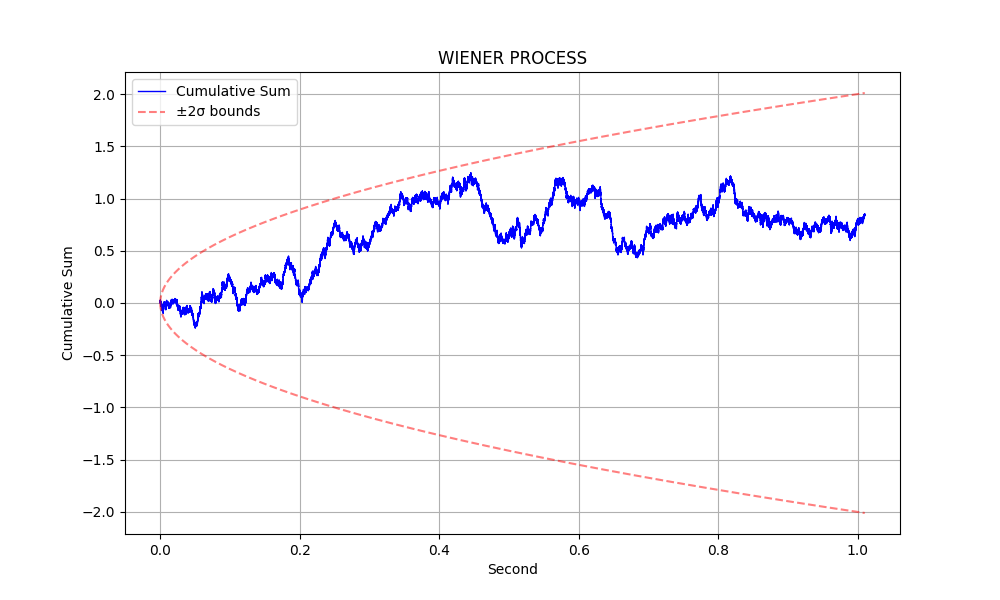
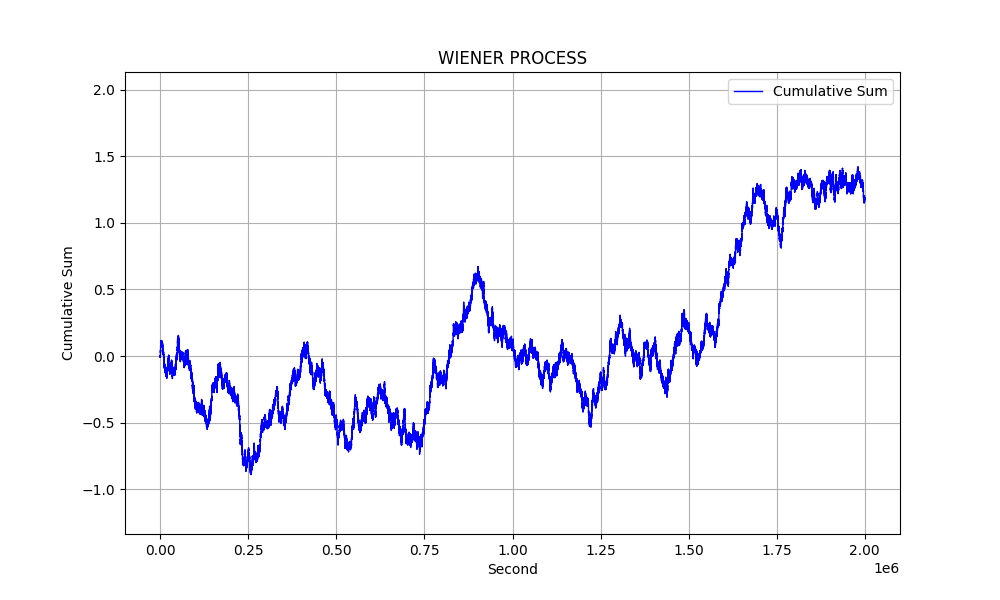
Second Commit

diff --git a/main.py b/main.py
@@ -11,7 +11,7 @@ CHOICE = 1
 ALPHA = 1
 T = 10 ** (-6)
 N = 10 ** 6
-SAMPLES_OF_WIENER = 10 ** 4
+SAMPLES_OF_WIENER = 10 ** 6
 
 def heads_or_tails(method: int = RAND, step_size : float = 0.001) -> float:
     if method == RAND:
@@ -20,6 +20,17 @@ def heads_or_tails(method: int = RAND, step_size : float = 0.001) -> float:
     else:
         outcomes = [-step_size, step_size]
         return np.random.choice(outcomes)
+
+def heads_or_tails_vectorized(method: int = RAND, step_size: float = 0.001, num_samples: int = N + SAMPLES_OF_WIENER + 1) -> np.ndarray:
+  if method == RAND:
+    random_numbers = np.random.rand(num_samples)
+    return np.where(random_numbers < 0.5, step_size, -step_size)
+  else:
+    outcomes = np.array([-step_size, step_size])
+    return np.random.choice(outcomes, size=num_samples)
+
+def calculate_cumulative_sum_vectorized(values: np.ndarray) -> np.ndarray:
+  return np.cumsum(values)
 
 def calculate_cumulative_sum(dict_to_calculate: Dict[int, float]) -> Dict[int, float]:
     cumulative_sum = 0
@@ -30,26 +41,20 @@ def calculate_cumulative_sum(dict_to_calculate: Dict[int, float]) -> Dict[int, f
     return new_dict
 
 def plot_wiener_process(
-        result_dict: Dict[int, float],
+        result: np.ndarray,
         display : bool = False,
         filename: str = "wiener_plot.png",
     ) -> None:
 
-    new_dict = calculate_cumulative_sum(result_dict)
-    times = [key / N for key in new_dict.keys()] # X values (number of samples)
-    values = new_dict.values() # Y values (Cumulative sum of everything before the current sample)
-
     plt.figure(figsize=(10, 6))
-    plt.plot(times, values, label="Cumulative Sum", color='b', linewidth=1)
-
-    # Add theoretical bounds
-    std = np.sqrt(ALPHA * times)
-    plt.plot(times, 2 * std, 'r--', alpha=0.5, label='±2σ bounds')
-    plt.plot(times, -2 * std, 'r--', alpha=0.5)
+    plt.plot(result, label="Cumulative Sum", color='b', linewidth=1)
 
     plt.xlabel("Second")
     plt.ylabel("Cumulative Sum")
     plt.title("WIENER PROCESS")
+
+    plt.ylim(result.min() * 1.5, result.max() * 1.5)
+
     plt.legend()
 
     plt.grid(True)
@@ -63,8 +68,8 @@ def plot_wiener_process(
 def main():
     # 1. Initial coin flip simulations
     TRIALS = 100
-    choice_results = [heads_or_tails(method=CHOICE) for _ in range(TRIALS)]
-    rand_results = [heads_or_tails(method=RAND) for _ in range(TRIALS)]
+    choice_results = heads_or_tails_vectorized(method=CHOICE, step_size =0.001, num_samples=TRIALS)
+    rand_results = heads_or_tails_vectorized(method=RAND, step_size =0.001, num_samples=TRIALS)
 
     # Print results of coin flip methods
     print("-" * 50 + "\nCounted results from Choice method:")
@@ -74,14 +79,14 @@ def main():
     print(Counter(rand_results))
 
     # 2. Calculate and display hyper parameters
-    variance = ALPHA * T
-    std_dev = np.sqrt(variance)
+    step_length_2 = ALPHA * T
+    step_length = np.sqrt(step_length_2)
 
     print("-" * 50 + "\nHyper parameters:")
     print("ALPHA =", ALPHA)
     print("T =", T)
-    print("S^2 = ALPHA * T =", variance)
-    print("S =", std_dev)
+    print("S^2 = ALPHA * T =", step_length_2)
+    print("S =", step_length)
     print("N =", N)
     print("Samples of wiener =", SAMPLES_OF_WIENER)
 
@@ -92,37 +97,25 @@ def main():
 
     # 4. Generate Wiener process
     total_samples = N + SAMPLES_OF_WIENER + 1
-    wiener_results = [heads_or_tails(method=RAND, step_size=0.001) for _ in range(total_samples)]
-    wiener_dict = {i: wiener_results[i] for i in range(total_samples)}
+    wiener_results = heads_or_tails_vectorized(method=RAND, step_size =0.001, num_samples=total_samples)
 
-    # 5. Calculate statistics
-    sample_sum = sum(wiener_dict[i + N] for i in range(SAMPLES_OF_WIENER + 1))
-    sample_mean = sample_sum / SAMPLES_OF_WIENER
+    sample_sum = np.cumsum(wiener_results[N:])
+    sample_mean = sample_sum[-1] / SAMPLES_OF_WIENER
 
-    print("-" * 50 + "\nsummation and mean after Wiener process starts at 1 million samples:")
+    print("-" * 50 + "\nsummation and mean after Wiener process starts after 1 million samples:")
     print(f"- Summation was over {SAMPLES_OF_WIENER} samples")
-    print("Summation:", sample_sum)
+    print("Summation:", sample_sum[-1])
     print("Mean:", sample_mean)
-
-    # Calculate variance
-    squared_deviations_sum = sum((wiener_dict[i + N] - sample_mean) ** 2
-                                 for i in range(SAMPLES_OF_WIENER + 1))
-    sample_variance = squared_deviations_sum / SAMPLES_OF_WIENER
-    print("Variance:", sample_variance)
 
     # 6. Plot full Wiener process
     plot_wiener_process(
-        wiener_dict,
+        np.cumsum(wiener_results[:]),
         display=True,
         filename="wiener_plot_starts_at_1sec_extended.png",
     )
 
-    # 7. Create and plot truncated process
-    truncated_values = list(dict(list(wiener_dict.items())[N:]).values())
-    truncated_dict = {i: truncated_values[i] for i in range(SAMPLES_OF_WIENER)}
-
     plot_wiener_process(
-        truncated_dict,
+        sample_sum,
         display=True,
         filename="wiener_plot.png",
     )
@@ -133,23 +126,28 @@ def main():
     COVARIANCE_TRIALS = 200
 
     covariance_results = []
+    variance_results = []
     for _ in range(COVARIANCE_TRIALS):
         # Generate new process
-        trial_results = [heads_or_tails(method=RAND, step_size=0.001) for _ in range(N + TIME_1 + 1)]
-        trial_dict = {i: trial_results[i] for i in range(N + TIME_1 + 1)}
+        wiener_results = heads_or_tails_vectorized(method=RAND, step_size =0.001, num_samples= N + TIME_1 + 1)
 
-        # Process results
-        trial_values = list(dict(list(trial_dict.items())[N:]).values())
-        trial_process = {i: trial_values[i] for i in range(TIME_1 + 1)}
-        cumulative_sums = calculate_cumulative_sum(trial_process)
+        wiener_results_cumulative_sum = np.cumsum(wiener_results[N:])
 
         # Calculate covariance
         covariance_results.append(
-            list(cumulative_sums.values())[TIME_0] * list(cumulative_sums.values())[TIME_1]
+            wiener_results_cumulative_sum[TIME_0] * wiener_results_cumulative_sum[TIME_1]
+        )
+        variance_results.append(
+            wiener_results_cumulative_sum[TIME_0] * wiener_results_cumulative_sum[TIME_0]
         )
 
+    print("-" * 50 + "\nVariance(x(0.001)) = Rx(0.001,0.001) equals to:")
+    print(str(np.mean(variance_results)) + " -> t = t0 * T =",TIME_0 * T)
+    print("Wiener Rx(t0,t0) should be ALPHA * t0 theoretically.\n"
+          "ALPHA is equal to one so that the Rx(0.001,0.001) should be 0.001.")
+
     print("-" * 50 + "\nRx(0.001,0.002) equals to:")
-    print(np.mean(covariance_results))
+    print(str(np.mean(covariance_results)) + " -> t = t0 * T =",TIME_0 * T)
     print("Wiener Rx(t0,t1) should be ALPHA * min(t0,t1) theoretically.\n"
           "ALPHA is equal to one so that the Rx(0.001,0.002) should be 0.001.")
 
